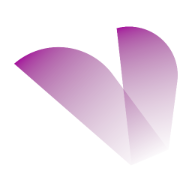
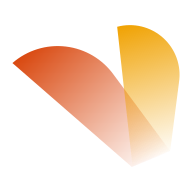
theme

diff --git a/docs/.vitepress/theme/custom.css b/docs/.vitepress/theme/custom.css
@@ -1,0 +1,41 @@
+/**
+ * The CHO colors: "Monarch", the orange and amber of the monarch butterfly.
+ *
+ * Only the brand colors of the default theme are replaced. Every text color
+ * has a contrast of at least 4.5:1 on the page and on the soft backgrounds,
+ * and so does white text on the brand buttons.
+ */
+
+:root {
+  /* text and links, their hover, and solid backgrounds */
+  --vp-c-brand-1: #b83c0a;
+  --vp-c-brand-2: #c2410c;
+  --vp-c-brand-3: #c9480e;
+  --vp-c-brand-soft: rgba(234, 88, 12, 0.14);
+
+  /* the name on the home page */
+  --vp-home-hero-name-color: transparent;
+  --vp-home-hero-name-background: linear-gradient(
+    120deg,
+    #c2410c 30%,
+    #e8a100
+  );
+}
+
+.dark {
+  --vp-c-brand-1: #ffa15c;
+  --vp-c-brand-2: #f97316;
+  --vp-c-brand-3: #c2410c;
+  --vp-c-brand-soft: rgba(251, 146, 60, 0.16);
+
+  --vp-home-hero-name-background: linear-gradient(
+    120deg,
+    #ffa15c 30%,
+    #ffd166
+  );
+
+  /* white text needs a darker button than the dark theme's link colors */
+  --vp-button-brand-bg: #c2410c;
+  --vp-button-brand-hover-bg: #b83c0a;
+  --vp-button-brand-active-bg: #a8370a;
+}

diff --git a/docs/.vitepress/config.ts b/docs/.vitepress/config.ts
@@ -111,7 +111,7 @@ export default defineConfig({
     ],
     socialLinks: [{ icon: "github", link: "https://github.com/cho-js/cho" }],
     editLink: {
-      pattern: "https://github.com/cho-js/cho-docs/edit/main/docs/:path",
+      pattern: "https://github.com/cho-js/docs/edit/main/docs/:path",
       text: "Edit this page",
     },
     footer: {

diff --git a/docs/.vitepress/theme/index.ts b/docs/.vitepress/theme/index.ts
@@ -1,0 +1,5 @@
+// The default VitePress theme, with the CHO colors.
+import DefaultTheme from "vitepress/theme";
+import "./custom.css";
+
+export default DefaultTheme;
